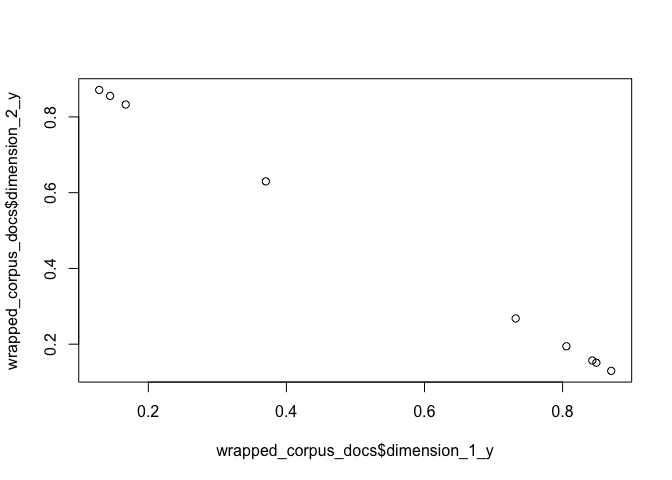
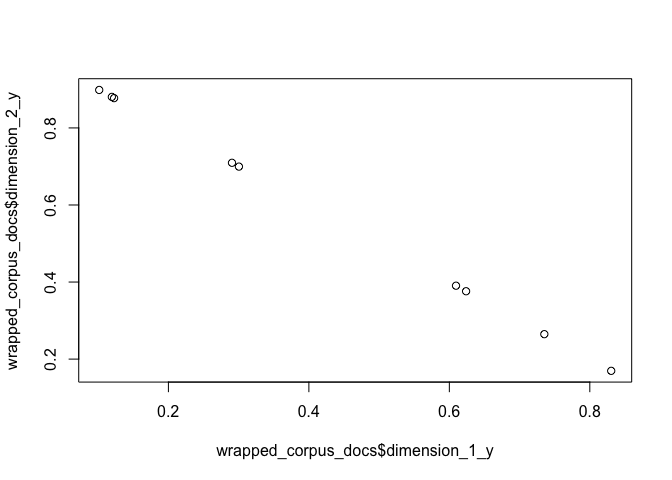
downloader

diff --git a/README.md b/README.md
@@ -109,7 +109,7 @@ should manually delete it with `delete_mmcorpus`.
 
 ``` r
 (corpus_mm <- serialize_mmcorpus(corpus_bow, auto_delete = FALSE))
-#> ℹ Path: /var/folders/n9/ys9t1h091jq80g4hww24v8g0n7v578/T//RtmprGjq2r/file28813adc9934.mm 
+#> ℹ Path: /var/folders/n9/ys9t1h091jq80g4hww24v8g0n7v578/T//RtmpAzWCLu/file2d126ad7004.mm 
 #>  ✔ Temp file
 #>  ✖ Delete after use
 ```
@@ -143,7 +143,7 @@ Note that we use the transformed corpus.
 lsi <- model_lsi(corpus_transformed, id2word = dictionary)
 #> ⚠ Low number of topics
 lsi$print_topics()
-#> [(0, '0.703*"trees" + 0.538*"graph" + 0.402*"minors" + 0.187*"survey" + 0.061*"system" + 0.060*"response" + 0.060*"time" + 0.058*"user" + 0.049*"computer" + 0.035*"interface"'), (1, '0.460*"system" + 0.373*"user" + 0.332*"eps" + 0.328*"interface" + 0.320*"response" + 0.320*"time" + 0.293*"computer" + 0.280*"human" + 0.171*"survey" + -0.161*"trees"')]
+#> [(0, '0.703*"trees" + 0.538*"graph" + 0.402*"minors" + 0.187*"survey" + 0.061*"system" + 0.060*"response" + 0.060*"time" + 0.058*"user" + 0.049*"computer" + 0.035*"interface"'), (1, '-0.460*"system" + -0.373*"user" + -0.332*"eps" + -0.328*"interface" + -0.320*"response" + -0.320*"time" + -0.293*"computer" + -0.280*"human" + -0.171*"survey" + 0.161*"trees"')]
 ```
 
 We can then wrap the model around the corpus to extract further
@@ -156,15 +156,15 @@ wrapped_corpus <- wrap(lsi, corpus_transformed)
 #> # A tibble: 9 x 4
 #>   dimension_1_x dimension_1_y dimension_2_x dimension_2_y
 #>           <dbl>         <dbl>         <dbl>         <dbl>
-#> 1             0        0.0660             1        0.520 
-#> 2             0        0.197              1        0.761 
-#> 3             0        0.0899             1        0.724 
-#> 4             0        0.0759             1        0.632 
-#> 5             0        0.102              1        0.574 
-#> 6             0        0.703              1       -0.161 
-#> 7             0        0.877              1       -0.168 
-#> 8             0        0.910              1       -0.141 
-#> 9             0        0.617              1        0.0539
+#> 1             0        0.0660             1       -0.520 
+#> 2             0        0.197              1       -0.761 
+#> 3             0        0.0899             1       -0.724 
+#> 4             0        0.0759             1       -0.632 
+#> 5             0        0.102              1       -0.574 
+#> 6             0        0.703              1        0.161 
+#> 7             0        0.877              1        0.168 
+#> 8             0        0.910              1        0.141 
+#> 9             0        0.617              1       -0.0539
 plot(wrapped_corpus_docs$dimension_1_y, wrapped_corpus_docs$dimension_2_y)
 ```
 
@@ -206,42 +206,42 @@ hdp <- model_hdp(corpus_mm, id2word = dictionary)
 reticulate::py_to_r(hdp$show_topic(topic_id = 1L, topn = 5L))
 #> [[1]]
 #> [[1]][[1]]
-#> [1] "user"
+#> [1] "human"
 #> 
 #> [[1]][[2]]
-#> [1] 0.306301
+#> [1] 0.2874479
 #> 
 #> 
 #> [[2]]
 #> [[2]][[1]]
-#> [1] "trees"
+#> [1] "computer"
 #> 
 #> [[2]][[2]]
-#> [1] 0.1372399
+#> [1] 0.145963
 #> 
 #> 
 #> [[3]]
 #> [[3]][[1]]
-#> [1] "computer"
+#> [1] "eps"
 #> 
 #> [[3]][[2]]
-#> [1] 0.098577
+#> [1] 0.1404769
 #> 
 #> 
 #> [[4]]
 #> [[4]][[1]]
-#> [1] "system"
+#> [1] "time"
 #> 
 #> [[4]][[2]]
-#> [1] 0.09821121
+#> [1] 0.08911537
 #> 
 #> 
 #> [[5]]
 #> [[5]][[1]]
-#> [1] "minors"
+#> [1] "user"
 #> 
 #> [[5]][[2]]
-#> [1] 0.08178417
+#> [1] 0.08424527
 ```
 
 ## Document Similarity
@@ -283,4 +283,24 @@ Clean up, delete the corpus.
 
 ``` r
 delete_mmcorpus(corpus_mm)
+```
+
+## Downloader
+
+You can download external datasets to easily build models.
+
+``` r
+dataset <- "glove-twitter-25"
+
+# info about model
+downloader_info(dataset) %>% 
+  reticulate::py_to_r() %>% 
+  .[["description"]]
+
+# download the model
+model <- downloader_load(dataset)
+
+# find words most similar to "cat"
+model$most_similar("cat") %>% 
+  reticulate::py_to_r()
 ```
